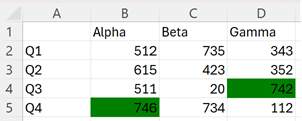
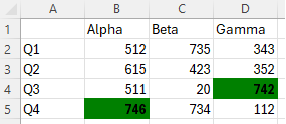
Address PR feedback

diff --git a/docs/resources/samples/conditional-formatting-samples.md b/docs/resources/samples/conditional-formatting-samples.md
@@ -7,7 +7,7 @@ ms.localizationpriority: medium
 
 # Conditional formatting samples
 
-Conditional formatting in Excel applies formatting to cells based on specific conditions or rules. This feature helps you visually highlight important data, identify trends, and analyze patterns in your spreadsheet. With conditional formatting, you'll quickly use color scales, data bars, and icon sets, to dynamically format your data. This page contains a collection of Office Scripts that demonstrate various conditional formatting options.
+Conditional formatting in Excel applies formatting to cells based on specific conditions or rules. These formats automatically adjust when the data changes, so your script doesn't need to be run multiple times. This page contains a collection of Office Scripts that demonstrate various conditional formatting options.
 
 This sample workbook contains worksheets ready to test with the sample scripts.
 
@@ -193,7 +193,7 @@ function main(workbook: ExcelScript.Workbook) {
 
 The following sample marks any cell in the range that contains the text "review".
 
-:::image type="content" source="../../images/conditional-formatting-sample-text-comparison.png" alt-text="A table with status entries where any cell containing the word 'review' has a red fill.":::
+:::image type="content" source="../../images/conditional-formatting-sample-text-comparison.png" alt-text="A table with status entries where any cell containing the word 'review' has a red fill and bold font.":::
 
 ```typescript
 function main(workbook: ExcelScript.Workbook) {
@@ -206,8 +206,9 @@ function main(workbook: ExcelScript.Workbook) {
     const textConditionFormat = dataRange.addConditionalFormat(
         ExcelScript.ConditionalFormatType.containsText).getTextComparison();
 
-    // Set the conditional format to provide a light red fill.
+    // Set the conditional format to provide a light red fill and make the font bold.
     textConditionFormat.getFormat().getFill().setColor("#F8696B");
+    textConditionFormat.getFormat().getFont().setBold(true);
 
     // Apply the condition rule that the text contains with "review".
     const textRule: ExcelScript.ConditionalTextComparisonRule = {
@@ -224,7 +225,7 @@ function main(workbook: ExcelScript.Workbook) {
 
 The following sample applies conditional formatting to show the two highest numbers in the range.
 
-:::image type="content" source="../../images/conditional-formatting-sample-top-bottom.png" alt-text="A sales table that has the top two values highlighted with a green fill.":::
+:::image type="content" source="../../images/conditional-formatting-sample-top-bottom.png" alt-text="A sales table that has the top two values highlighted with a green fill and a bold font.":::
 
 ```typescript
 function main(workbook: ExcelScript.Workbook) {
@@ -236,6 +237,7 @@ function main(workbook: ExcelScript.Workbook) {
     // Set the fill color to green for the top 2 values in the range.
     const topBottomFormat = dataRange.addConditionalFormat(ExcelScript.ConditionalFormatType.topBottom).getTopBottom();
     topBottomFormat.getFormat().getFill().setColor("green");
+    topBottomFormat.getFormat().getFont().setBold(true);
     topBottomFormat.setRule({
       rank: 2, /* The numeric threshold. */
       type: ExcelScript.ConditionalTopBottomCriterionType.topItems /* The type of the top/bottom condition. */
@@ -247,9 +249,9 @@ function main(workbook: ExcelScript.Workbook) {
 
 [Custom conditional formatting](/javascript/api/office-scripts/excelscript/excelscript.customconditionalformat) allows for complex formulas to define when formatting is applied. Use this when the other options aren't enough.
 
-The following sample sets a custom conditional formatting on the selected range. A light-green fill is applied to a cell if the value is larger than the value in the row's previous column.
+The following sample sets a custom conditional formatting on the selected range. A light-green fill and bold font are applied to a cell if the value is larger than the value in the row's previous column.
 
-:::image type="content" source="../../images/conditional-formatting-sample-custom.png" alt-text="A row of a sales table. Values that are higher than the one to the left have a green fill.":::
+:::image type="content" source="../../images/conditional-formatting-sample-custom.png" alt-text="A row of a sales table. Values that are higher than the one to the left have a green fill and a bold font.":::
 
 ```typescript
 function main(workbook: ExcelScript.Workbook) {
@@ -259,9 +261,10 @@ function main(workbook: ExcelScript.Workbook) {
     sheet.activate();
     
     // Apply a rule for positive change from the previous column.
-    let positiveChange = dataRange.addConditionalFormat(ExcelScript.ConditionalFormatType.custom);
-    positiveChange.getCustom().getFormat().getFill().setColor("lightgreen");
-    positiveChange.getCustom().getRule().setFormula(
+    const positiveChange = dataRange.addConditionalFormat(ExcelScript.ConditionalFormatType.custom).getCustom();
+    positiveChange.getFormat().getFill().setColor("lightgreen");
+    positiveChange.getFormat().getFont().setBold(true);
+    positiveChange.getRule().setFormula(
         `=${dataRange.getCell(0, 0).getAddress()}>${dataRange.getOffsetRange(0, -1).getCell(0, 0).getAddress()}`
     );
 }
